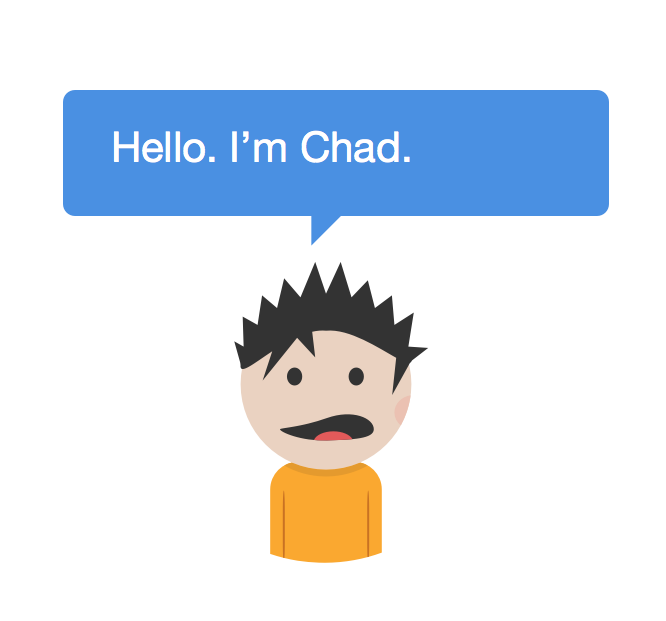
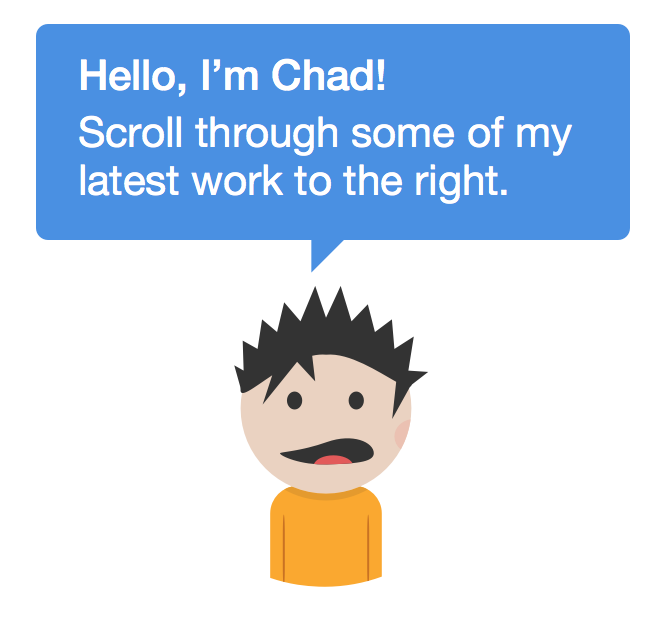
mobile friendlierer

Changed region(s): [[0.03, 0.0306, 0.961, 0.8261], [0.3904, 0.8873, 0.5706, 0.9485]]

diff --git a/index.html b/index.html
@@ -8,7 +8,7 @@
 
     <link rel="stylesheet" type="text/css" href="style.css">
 
-    <link type="text/css" rel="stylesheet" href="mobile-css.css" media="only screen and (max-width: 480px)" />
+    <link type="text/css" rel="stylesheet" href="mobile-css.css" media="only screen and (max-width: 880px)" />
 </head>
 
 <body>
@@ -44,17 +44,9 @@
 
     </div>
 
-    <div class="gallery-wrap">
-        <div class="project-gallery-wrapper">
-            <div class="project-current-image">
-            </div>
-            <div class="project-images">
-            </div>
-
-        </div>
-    </div>
-
     
+
+    <img src="stream-images/dude2.png" width="310px" class="mobile-guy" />
 
     <ul id="images">
 
@@ -70,9 +62,7 @@
         <li class="img-thumb" num="10" type="jpg" style='background-image:url("im/thumbs/10.jpg")'></li>
         <li class="img-thumb" num="11" type="png" style='background-image:url("im/thumbs/11.png")'></li>
         <li class="img-thumb" num="12" type="png" style='background-image:url("im/thumbs/12.png")'></li>-->
-        <li class="stream-img-item special">
-            Scroll through some of my latest work below.
-        </li>
+       
         <li class="stream-img-item">
             <h4 class="stronger">Chat</h4>
             <h4 class="grey">Sneak peak of chat coming to Yahoo Fantasy Sports. One of the most requested features as our app aims to foster community.</h4>

diff --git a/mobile-css.css b/mobile-css.css
@@ -1,6 +1,6 @@
 .left-nav{
 	visibility: hidden;
-}
+	}
 #images{
 	padding:10px;
 	margin-left:0px;
@@ -21,17 +21,18 @@
         width:100%;
         height:auto;
         margin-left:-10px;
+        box-shadow:none;
     }
     .special{
-       
-        padding:10px 15px;
-        border-radius:4px;
-        color:#fff;
-        font-weight:200;
-        font-size:20px;
-        width:260px !important;
-        margin-bottom:40px !important;
-        margin-top:40px !important;
-        position:relative;
+        visibility: hidden;
+        height:0px;
 
+    }
+    .mobile-guy{
+        visibility: visible;
+        height:auto;
+    }
+    h4{
+        margin-right:15px;
+        font-size:18px;
     }

diff --git a/style.css b/style.css
@@ -778,9 +778,16 @@ h1{
         width:580px !important;
         margin-bottom:80px !important;
         position:relative;
+        margin-top:-30px !important;
 
     }
+.mobile-guy{
+        visibility: hidden;
+        width:320px;
+        margin:20px auto -30px auto;
+        display:block;
+        height:0px;
 
-
+    }
 
 
